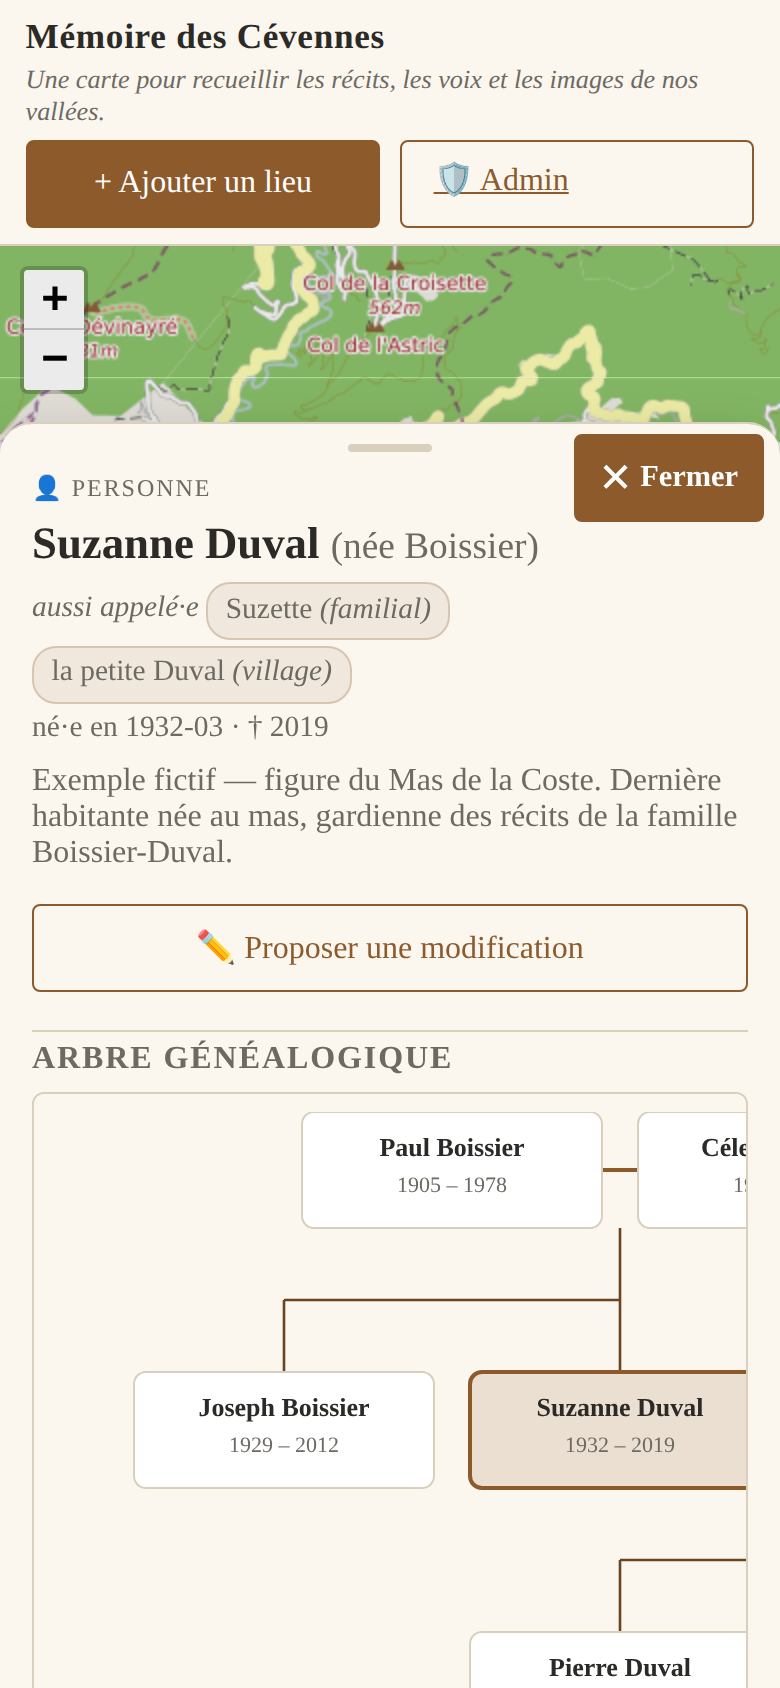
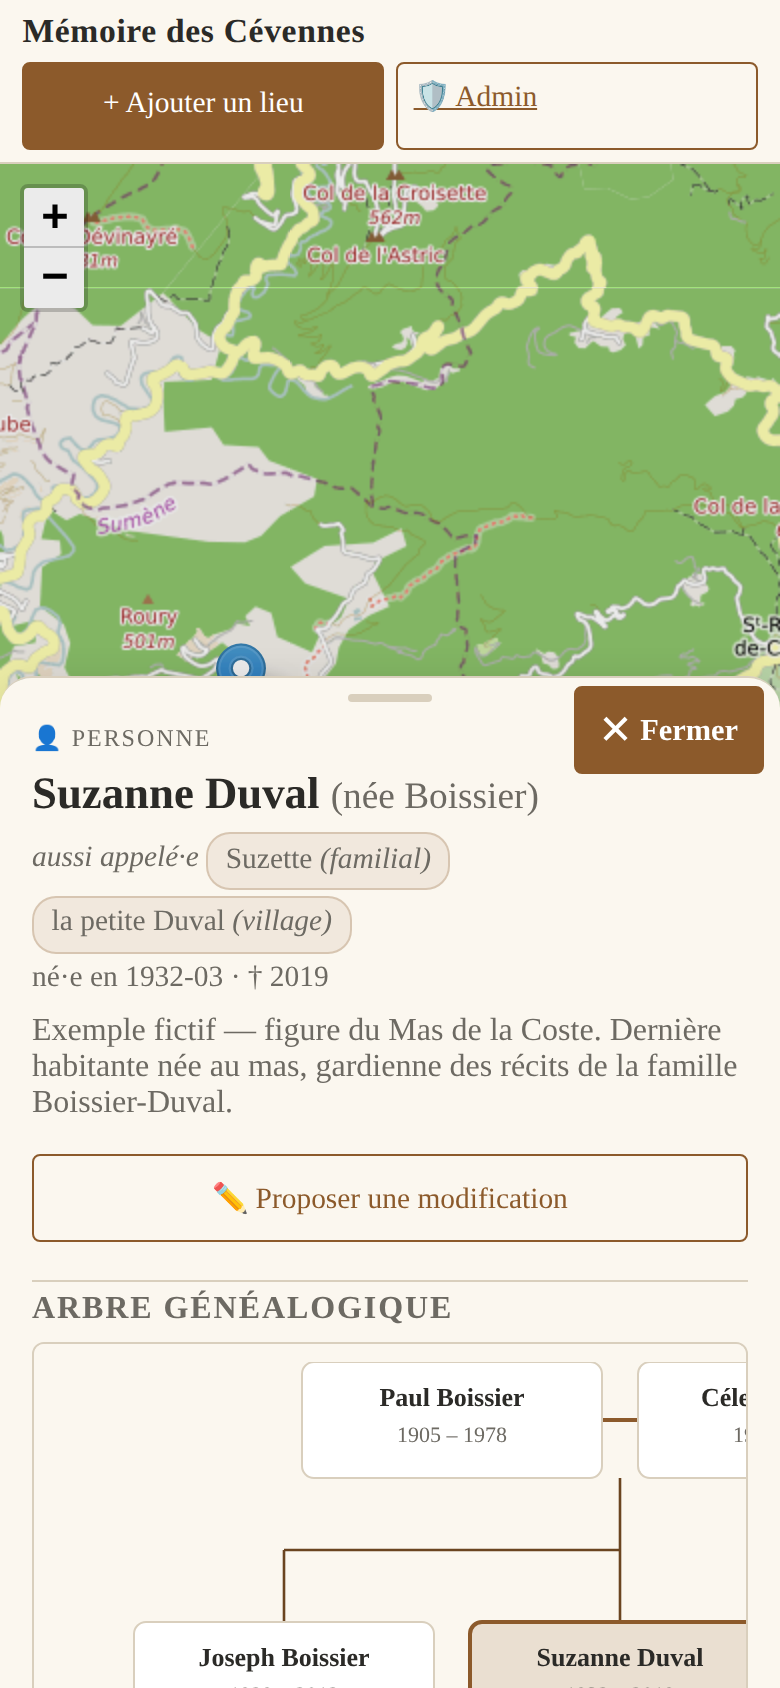
Mobile : panel plus court, bandeau fermable, topbar compacte
Sur petit écran (<600px), l'empilement topbar complète + bandeau preview
+ panel à 75vh ne laissait quasi rien de la carte visible quand on
consultait un lieu. Trois ajustements :

- Panel bottom-sheet : hauteur abaissée de 75vh à 60vh (max 75vh). La
  carte reste visible en arrière-plan.
- Bandeau « lecture seule » : bouton × pour le fermer, état mémorisé
  dans localStorage, et auto-masqué quand un panel est ouvert pour
  rendre tout l'espace à la lecture.
- Topbar mobile : tagline masquée (les titres + boutons suffisent, la
  place est précieuse), boutons en row stretch, tailles réduites.

diff --git a/public/css/style.css b/public/css/style.css
@@ -66,8 +66,14 @@ body {
   background: var(--banner-bg);
   color: var(--banner-fg);
   border-bottom: 1px solid var(--border);
-  padding: 0.55rem 1.2rem;
+  padding: 0.45rem 0.5rem 0.45rem 1rem;
   font-size: 0.9rem;
+  display: flex;
+  align-items: center;
+  gap: 0.4rem;
+}
+.banner-text {
+  flex: 1;
   text-align: center;
 }
 .banner code {
@@ -75,6 +81,21 @@ body {
   padding: 0 0.25rem;
   border-radius: 3px;
   font-size: 0.88em;
+}
+.banner-close {
+  background: transparent;
+  border: none;
+  color: var(--banner-fg);
+  font-size: 1.5rem;
+  line-height: 1;
+  padding: 0.1rem 0.5rem;
+  cursor: pointer;
+  min-width: 32px;
+  min-height: 32px;
+  border-radius: 3px;
+}
+.banner-close:hover {
+  background: rgba(0, 0, 0, 0.06);
 }
 
 .btn-primary, .btn-ghost {
@@ -572,31 +593,48 @@ dialog .actions {
 /* ── Responsive : mobile ───────────────────────────────────── */
 @media (max-width: 600px) {
   .topbar {
-    padding: 0.5rem 0.8rem;
-    gap: 0.4rem;
+    padding: 0.4rem 0.7rem;
+    gap: 0.3rem;
   }
-  .topbar-titles h1 { font-size: 1.1rem; }
-  .tagline {
-    font-size: 0.82rem;
-    /* on garde le sous-titre mais on le laisse passer à la ligne */
+  .topbar-titles h1 {
+    font-size: 1.05rem;
+    line-height: 1.15;
   }
-  .topbar-actions { width: 100%; justify-content: flex-start; }
-  .btn-primary, .btn-ghost { flex: 1; }
+  /* Le sous-titre prend de la place précieuse sur petit écran. */
+  .tagline { display: none; }
+  .topbar-actions {
+    width: 100%;
+    justify-content: stretch;
+    gap: 0.35rem;
+  }
+  .btn-primary, .btn-ghost {
+    flex: 1;
+    padding: 0.45rem 0.5rem;
+    font-size: 0.92rem;
+  }
 
-  /* Le panneau devient un bottom sheet */
+  .banner {
+    font-size: 0.78rem;
+    padding: 0.35rem 0.3rem 0.35rem 0.6rem;
+  }
+  .banner code { font-size: 0.85em; }
+
+  /* Le panneau devient un bottom sheet. Hauteur réduite pour laisser
+     une bonne partie de la carte visible derrière (sinon on a l'impression
+     d'avoir perdu la carte). */
   .panel {
     top: auto;
     bottom: 0;
     right: 0;
     left: 0;
     width: 100%;
-    height: 75vh;
-    max-height: 85vh;
+    height: 60vh;
+    max-height: 75vh;
     border-left: none;
     border-top: 1px solid var(--border);
     border-radius: 16px 16px 0 0;
     transform: translateY(100%);
-    padding: 1.2rem 1rem 3rem;
+    padding: 1.1rem 1rem 3rem;
   }
   .panel[aria-hidden="false"] {
     transform: translateY(0);
@@ -634,6 +672,11 @@ dialog .actions {
   /* Pousse un peu la carte vers le haut pour laisser la place au panneau */
   body.panel-open #map {
     filter: brightness(0.92);
+  }
+  /* Quand on consulte un contenu, on rend le bandeau invisible pour
+     rendre tout l'espace à la lecture. Il réapparaît à la fermeture. */
+  body.panel-open .banner {
+    display: none;
   }
 
   /* Dialogs : pleine largeur confortable sur mobile */

diff --git a/public/js/app.js b/public/js/app.js
@@ -40,6 +40,14 @@ document.getElementById('panel-close').addEventListener('click', closePanel);
 // Les dialogs (add-place / add-story / propose-edit) et leur logique vivent
 // dans forms.js, chargé après app.js.
 
+// Bandeau "lecture seule" : fermable, son état est mémorisé pour ne pas
+// ré-apparaître à chaque visite.
+const BANNER_DISMISSED_KEY = 'mdc-readonly-banner-dismissed';
+document.getElementById('banner-close').addEventListener('click', () => {
+  readonlyBanner.hidden = true;
+  try { localStorage.setItem(BANNER_DISMISSED_KEY, '1'); } catch {}
+});
+
 // ─── Chargement données ─────────────────────────────────────────────────
 async function fetchJson(url) {
   const res = await fetch(url, { cache: 'no-store' });
@@ -99,7 +107,8 @@ function refreshMarkers() {
 
 function applyMode() {
   if (state.mode === 'static') {
-    readonlyBanner.hidden = false;
+    const dismissed = (() => { try { return localStorage.getItem(BANNER_DISMISSED_KEY) === '1'; } catch { return false; } })();
+    readonlyBanner.hidden = dismissed;
     addBtn.textContent = '🔒 Lecture seule';
     addBtn.classList.add('btn-locked');
   } else {

diff --git a/public/index.html b/public/index.html
@@ -22,8 +22,11 @@
     </div>
   </header>
   <div id="readonly-banner" class="banner" hidden>
-    🔒 Aperçu en lecture seule — pour contribuer, lance l'application localement
-    (<code>./run.sh</code>) ou clone le dépôt.
+    <span class="banner-text">
+      🔒 Aperçu en lecture seule — pour contribuer, lance l'application
+      localement (<code>./run.sh</code>) ou clone le dépôt.
+    </span>
+    <button type="button" class="banner-close" id="banner-close" aria-label="Masquer le bandeau">×</button>
   </div>
 
   <main>
